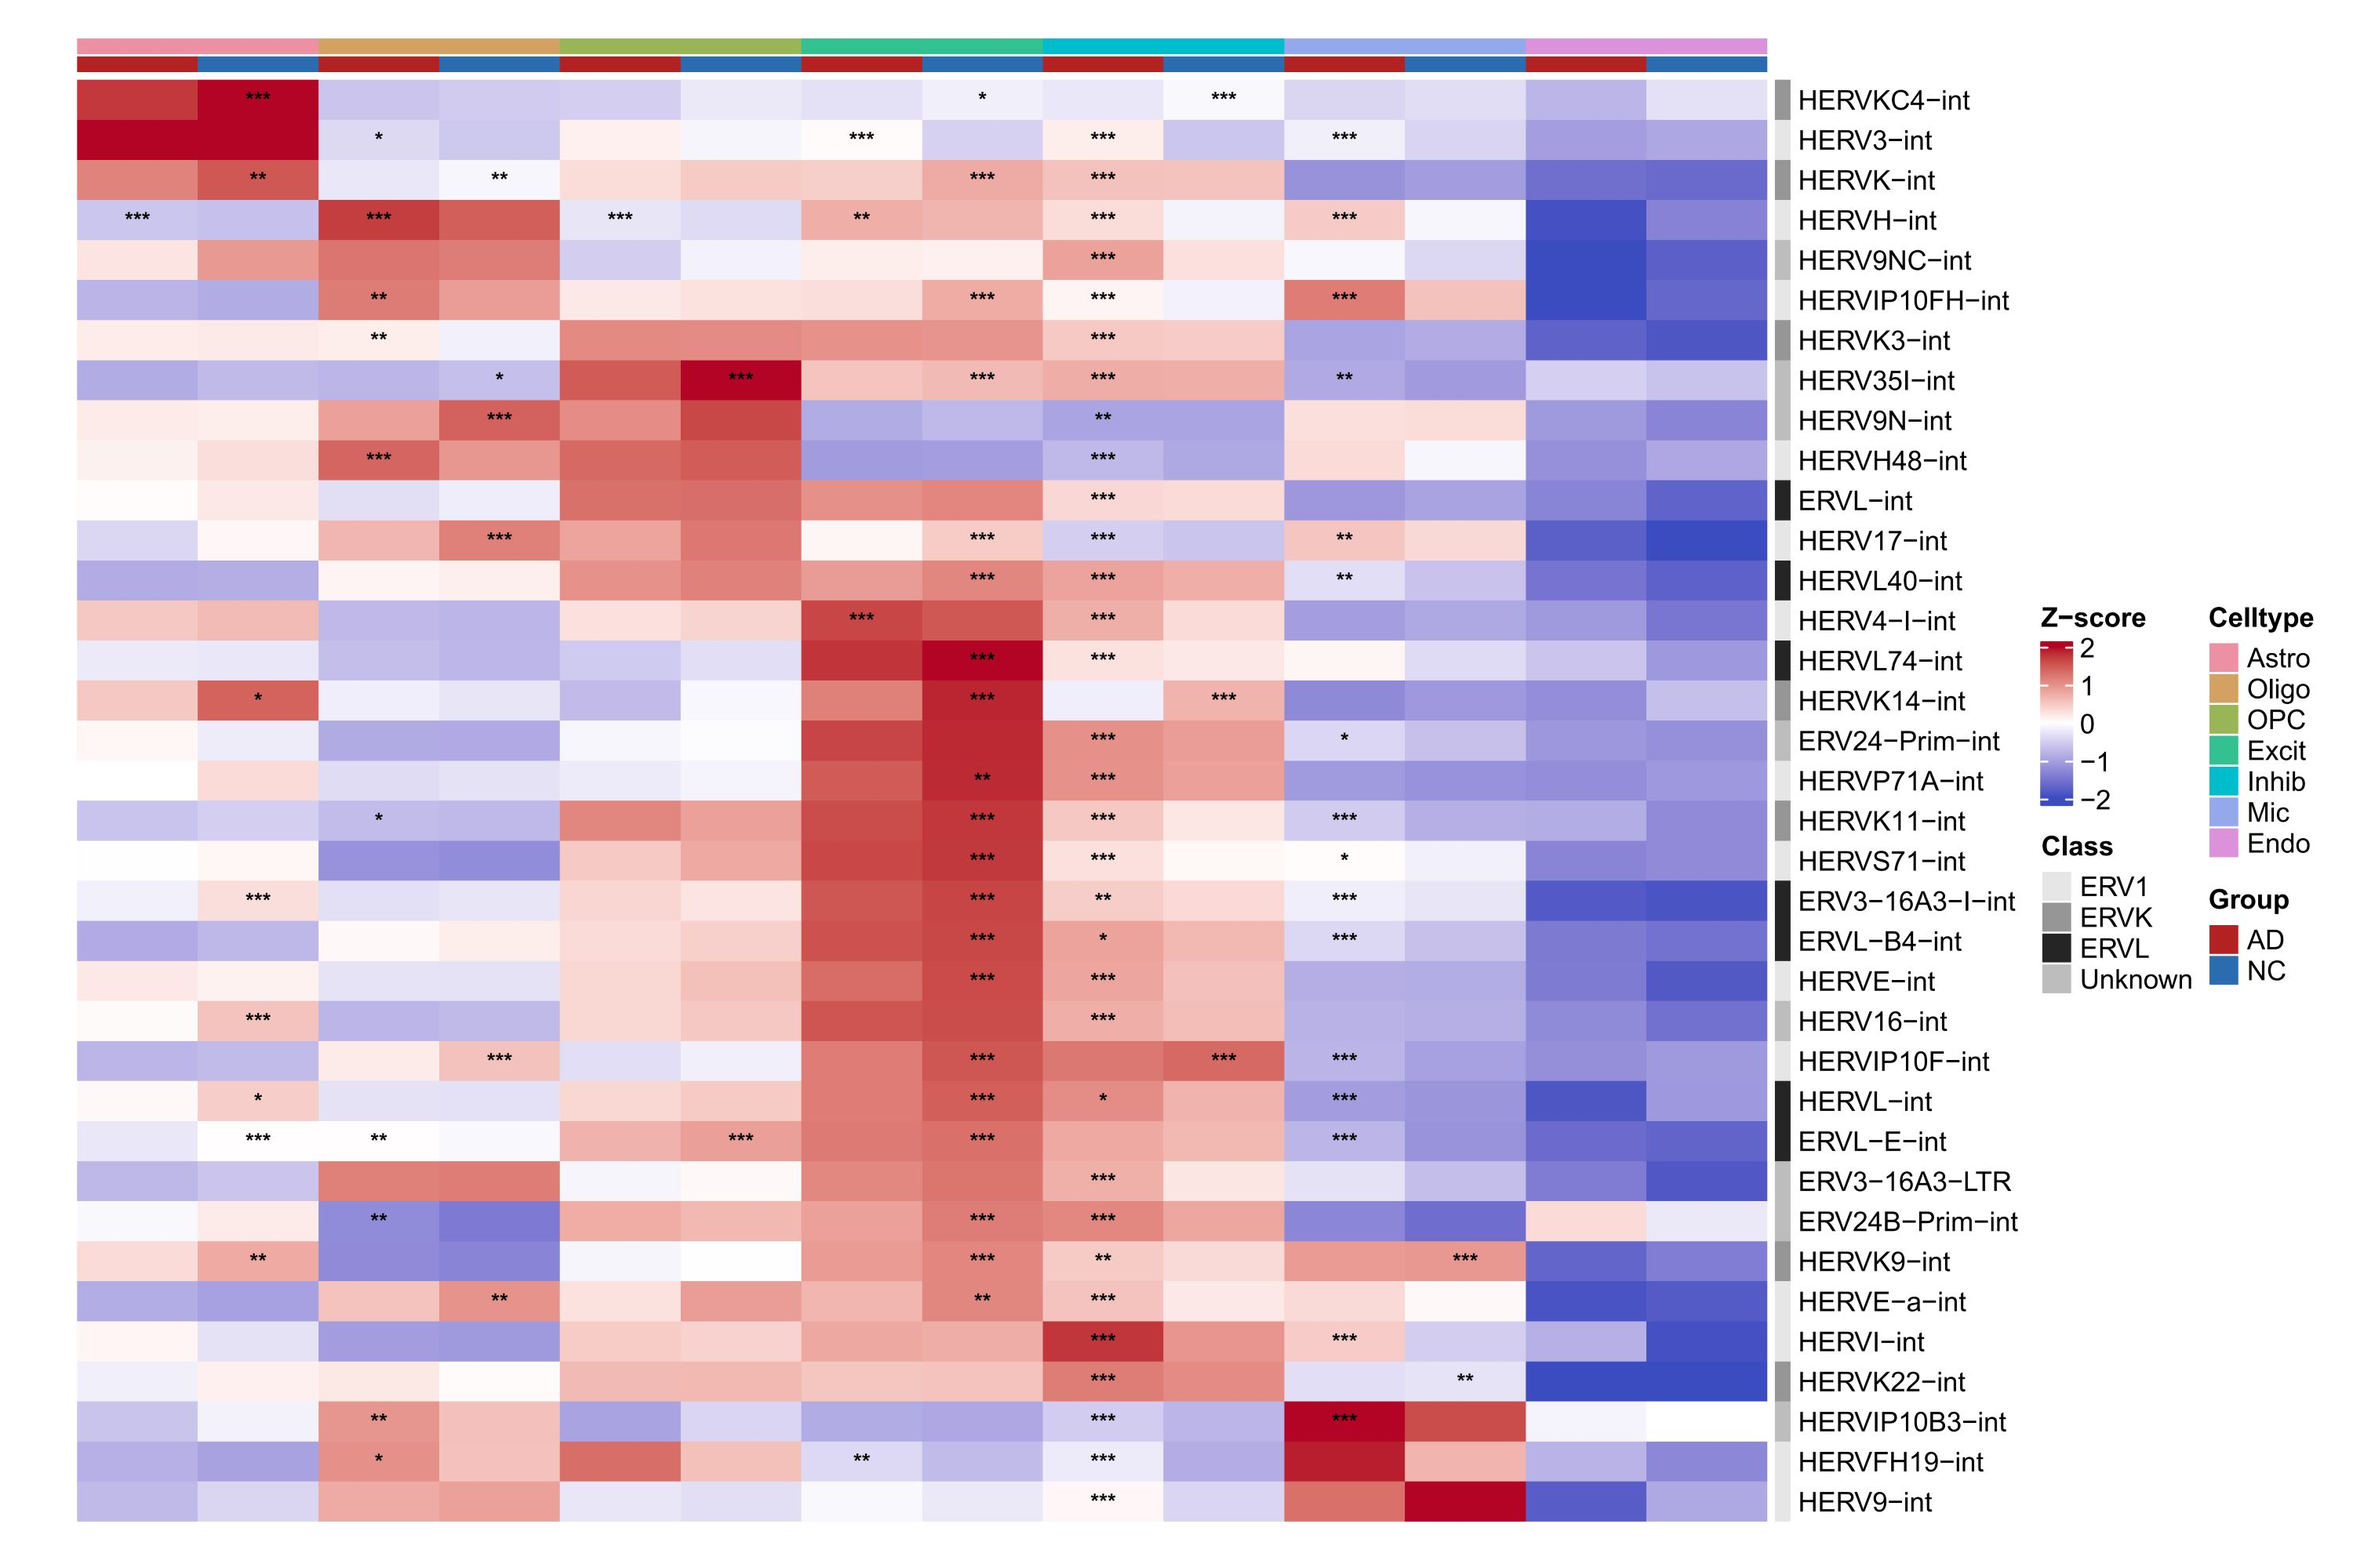
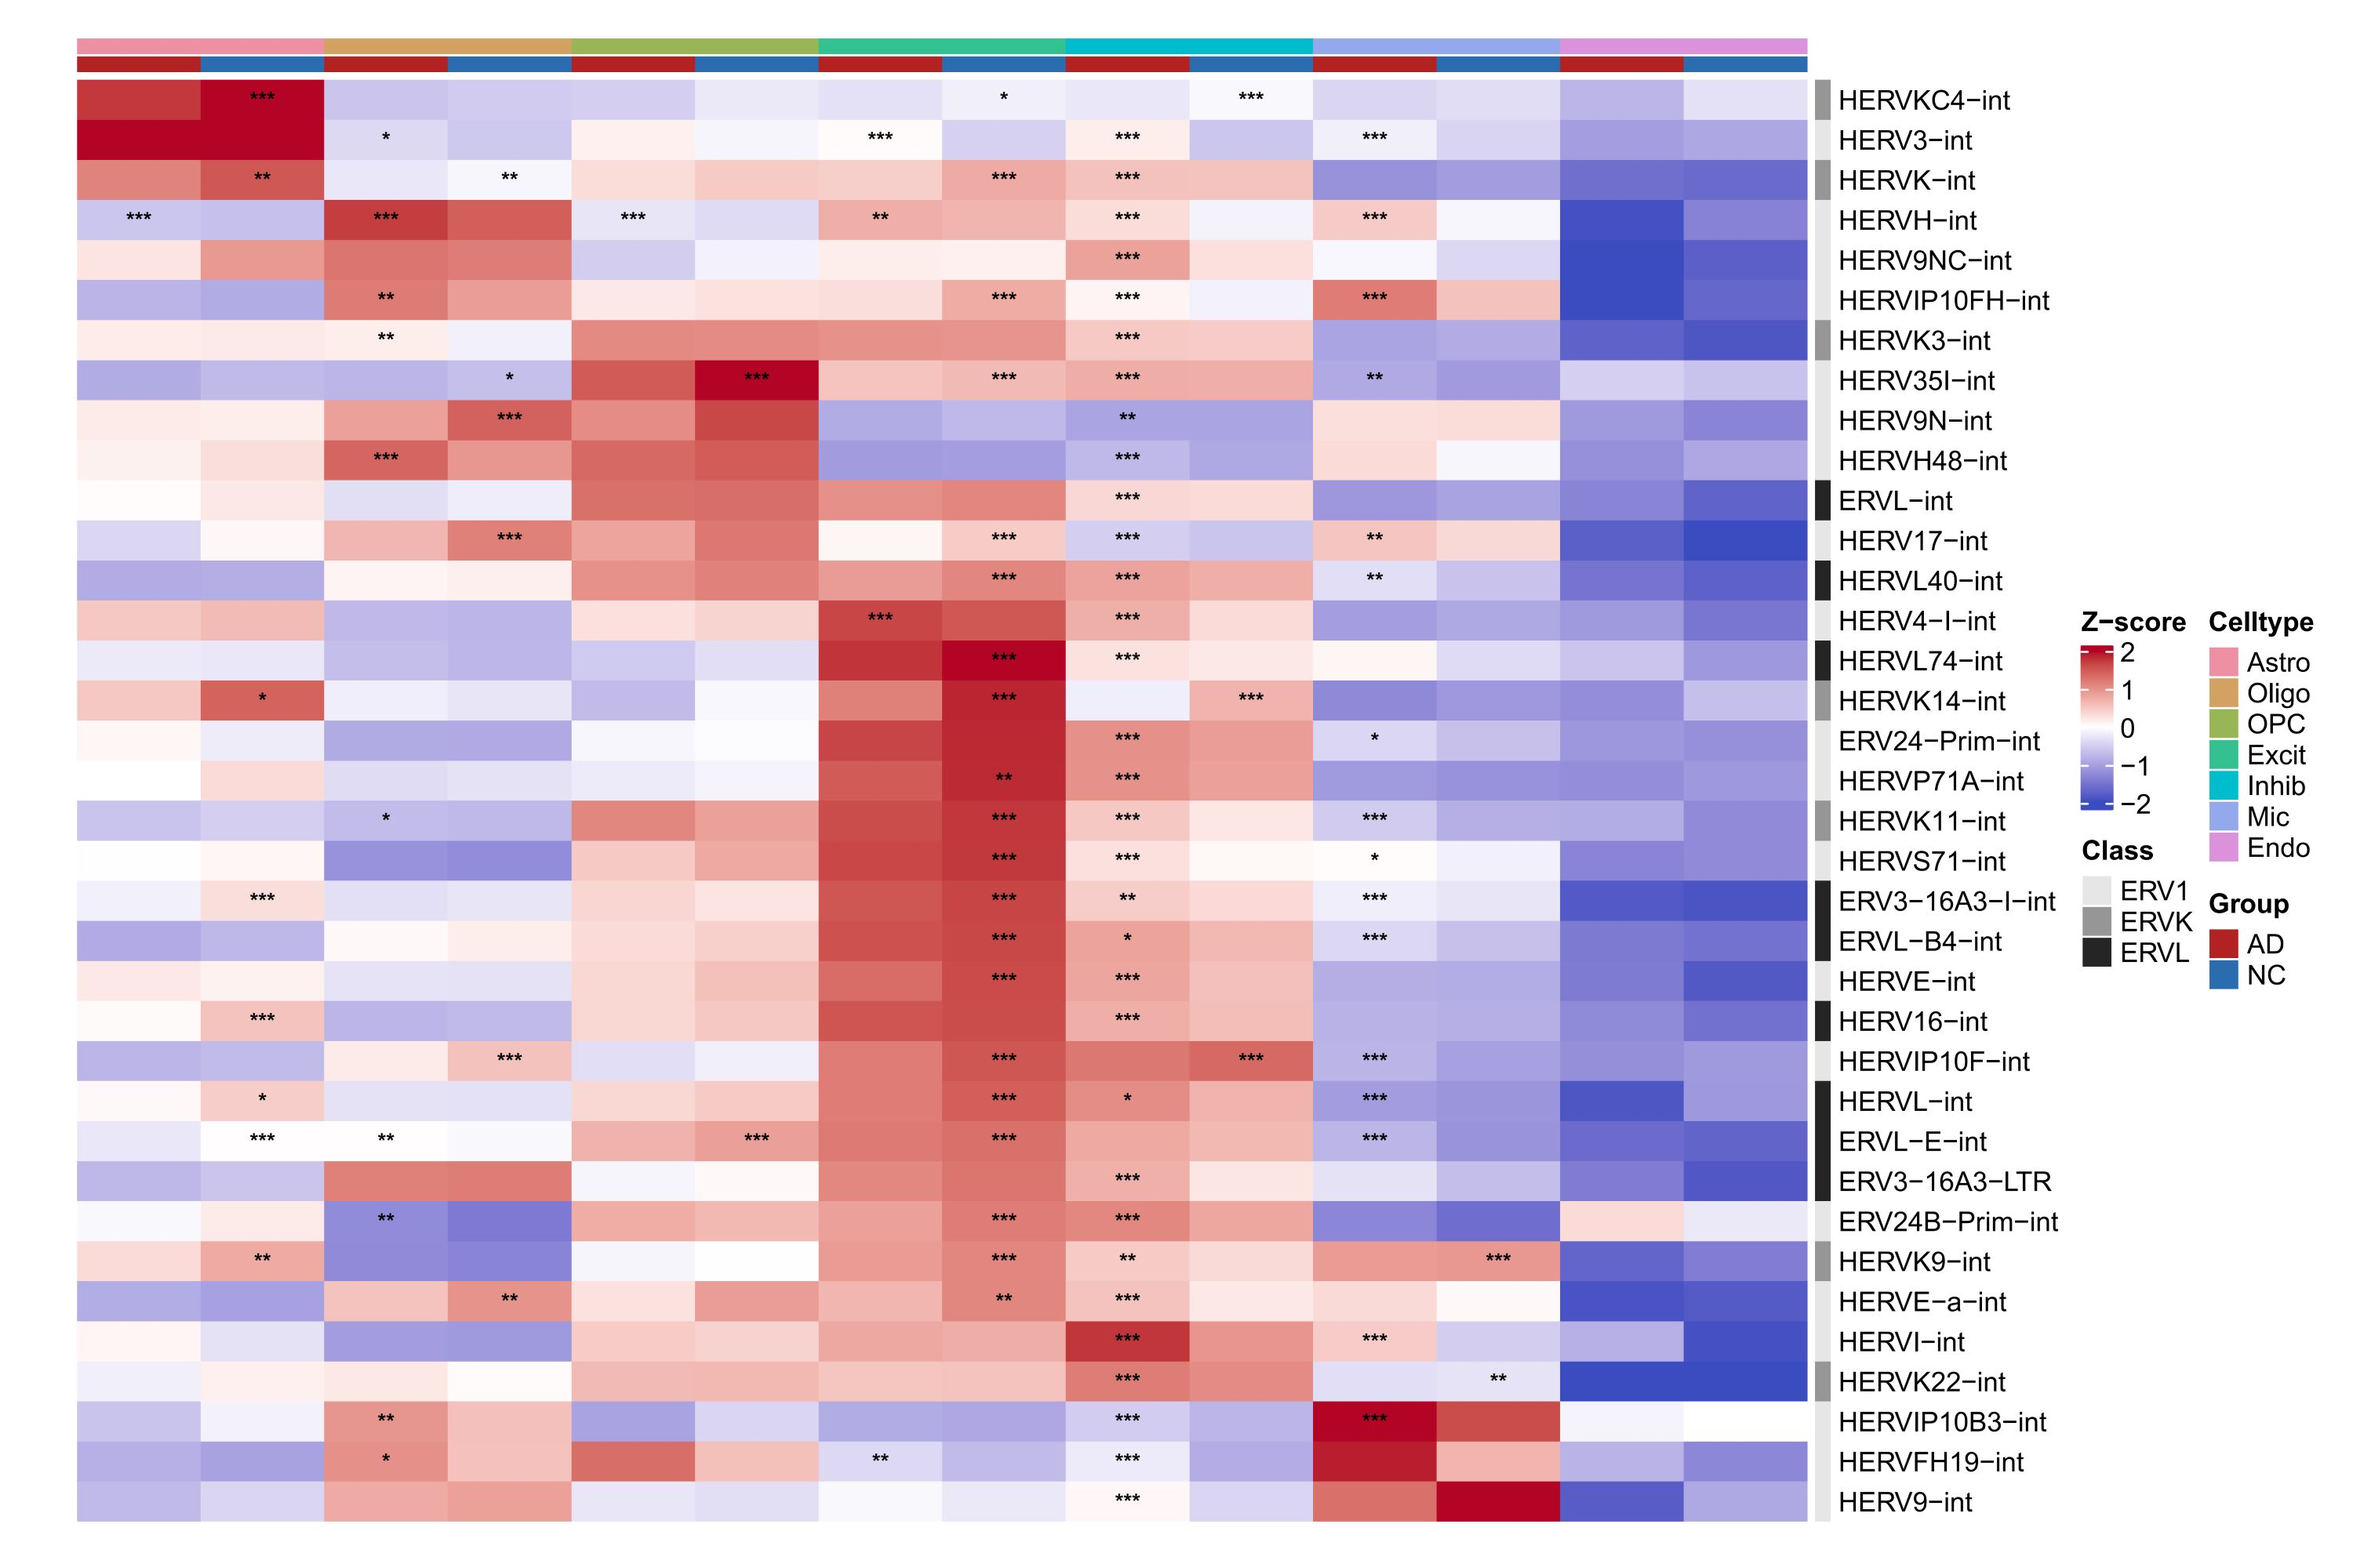
0427

diff --git a/_posts/2022-11-29-毕设代码.md b/_posts/2022-11-29-毕设代码.md
@@ -3817,7 +3817,7 @@ ggsave(
 #### 各细胞类型的hERV表达量和DE显著性
 
 ```r
-my_heatmap <- function(seu, herv_assay, de_res_path, herv_map_path = "/public/home/GENE_proc/wth/metadata/hERV/hERV_locus2family.csv"){
+my_heatmap <- function(seu, herv_assay, de_res_path){
   dataset <- identity_seu(seu, "dataset")
   mat <- GetAssayData(seu, assay = herv_assay, layer = "data")
   celltype_order <- c("Astro", "Oligo", "OPC", "Excit", "Inhib", "Mic", "Endo")
@@ -3867,11 +3867,11 @@ my_heatmap <- function(seu, herv_assay, de_res_path, herv_map_path = "/public/ho
   peak_val <- apply(plot_mat_z, 1, max)
   ord <- order(peak_col, -peak_val)
   plot_mat_z <- plot_mat_z[ord, , drop = FALSE]
-  family_anno <- read.csv(herv_map_path)
-  family_anno$subfamily_raw <- gsub("_", "-", family_anno$subfamily_raw)
+  family_anno <- read.table("/public/home/GENE_proc/wth/metadata/hERV/LTR2Class.tsv", header=T, sep="\t")
+  family_anno$repName <- gsub("_", "-", family_anno$repName)
   mat_rowname <- rownames(plot_mat_z)
   if(!endsWith(mat_rowname[1], "-int")) mat_rowname <- paste0(mat_rowname, "-int")
-  row_class <- family_anno$class[match(mat_rowname, family_anno$subfamily_raw)]
+  row_class <- family_anno$repClass[match(mat_rowname, family_anno$repName)]
   row_class[is.na(row_class)] <- "Unknown"
   class_cols <- c(
     "ERV1" = "#E6E6E6",
@@ -3979,9 +3979,7 @@ my_heatmap <- function(seu, herv_assay, de_res_path, herv_map_path = "/public/ho
   draw(ht, heatmap_legend_side = "right", annotation_legend_side = "right", padding = unit(c(5, 10, 5, 5), "mm"))
   dev.off()
 }
-my_heatmap(seu, "HERV_family", "/public/home/GENE_proc/wth/res/hERV_family_celltype.csv")
 my_heatmap(seu, "HERV_subfamily_scTE", "/public/home/GENE_proc/wth/res/hERV_family_scTE_celltype.csv")
-my_heatmap(seu, "HERV_subfamily_LTR_scTE", "/public/home/GENE_proc/wth/res/hERV_family_LTR_scTE_celltype.csv")
 ```
 
 #### DE结果图

diff --git a/_posts/2022-11-30-毕设过程中的结果图汇总.md b/_posts/2022-11-30-毕设过程中的结果图汇总.md
@@ -300,22 +300,3 @@ family_LTR_scTE：
 - HERV_subfamily_LTR_scTE：
   
   ![毕设正文和图片32](/upload/md-image/other/毕设正文和图片32.jpg){:width="800px" height="800px"}
-
-#### 共表达网络组合图
-
-
-
-
-### 总结
-
-#### 主要研究成果
-
-
-
-#### 局限性
-
-样本数较少
-
-使用的数据的建库方法是10x Chromium Single Cell 3′ v3——“用poly(dT)引物捕获带poly(A)尾的转录本”，可能会低估或者漏掉不带polyA的ncRNA（非编码RNA），同时TE里面有相当一部分是non-polyA的，所以在hERV计数上大概率会偏低。不过我这个分析主要是AD-NC/不同细胞类型之间的组间比较，或者是共表达这种定性的找趋势，所以在这类不需要精确计数的分析上应该影响不大。当然也不可能说完全没有影响：
-- 之前别人的bulk RNA-seq分析用的是total RNA的测序方法（而不是我这种polyA+的测序方法），这可能是结论有差异的原因之一
-- 我这里能被polyA+的测序方法测出来的hERV读段，可能是hERV中有一定特殊性的片段，比如是剪接到了正常gene中的、或是借用了周围的polyA
